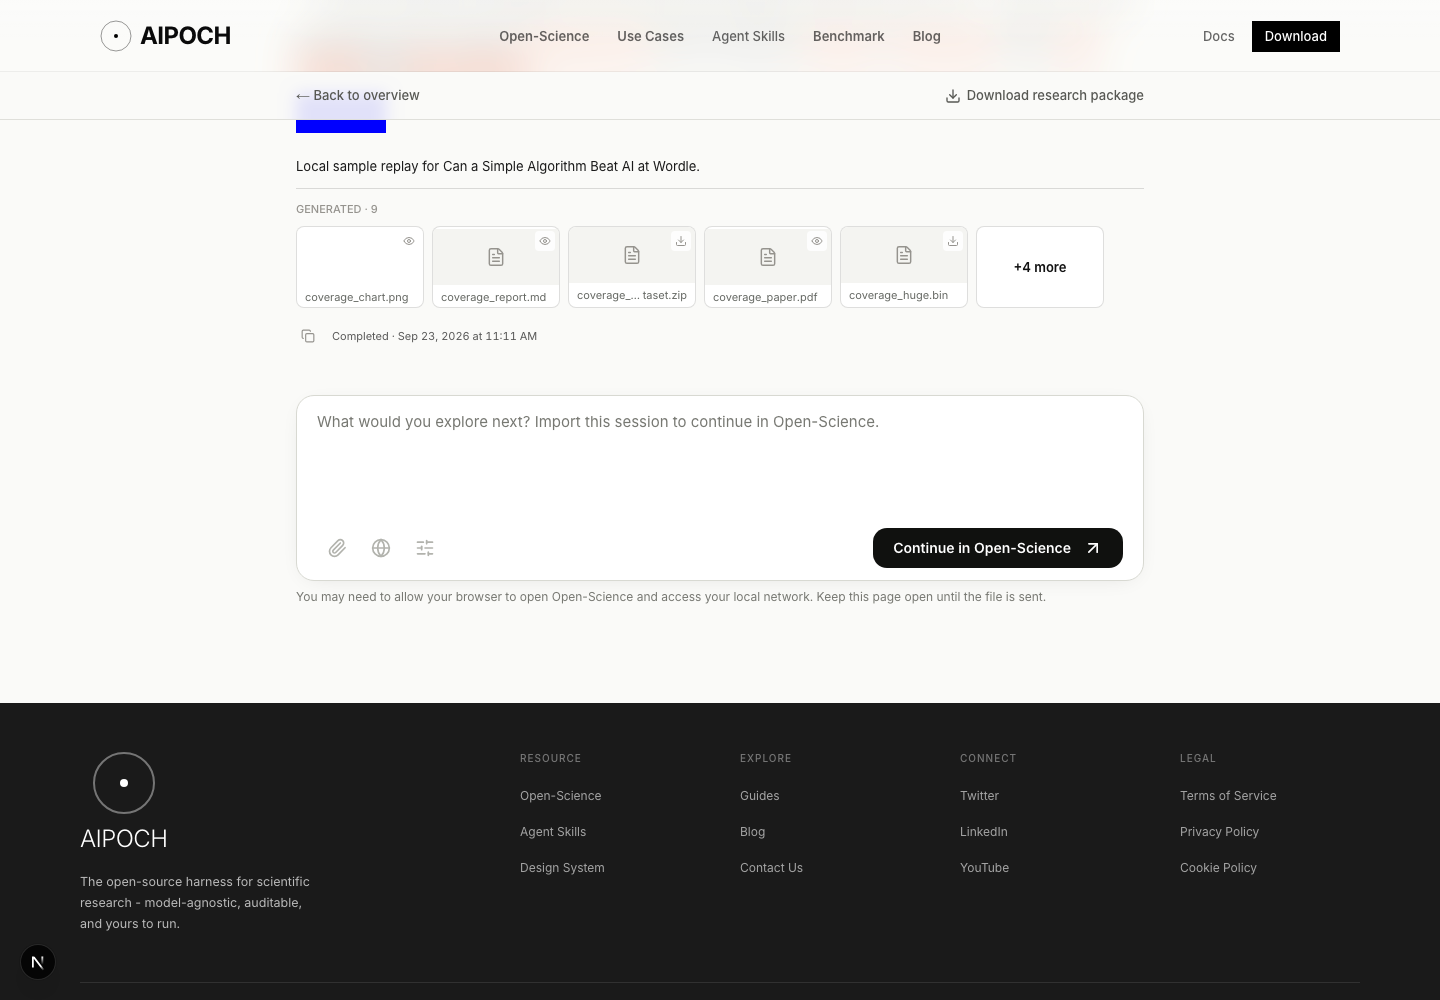
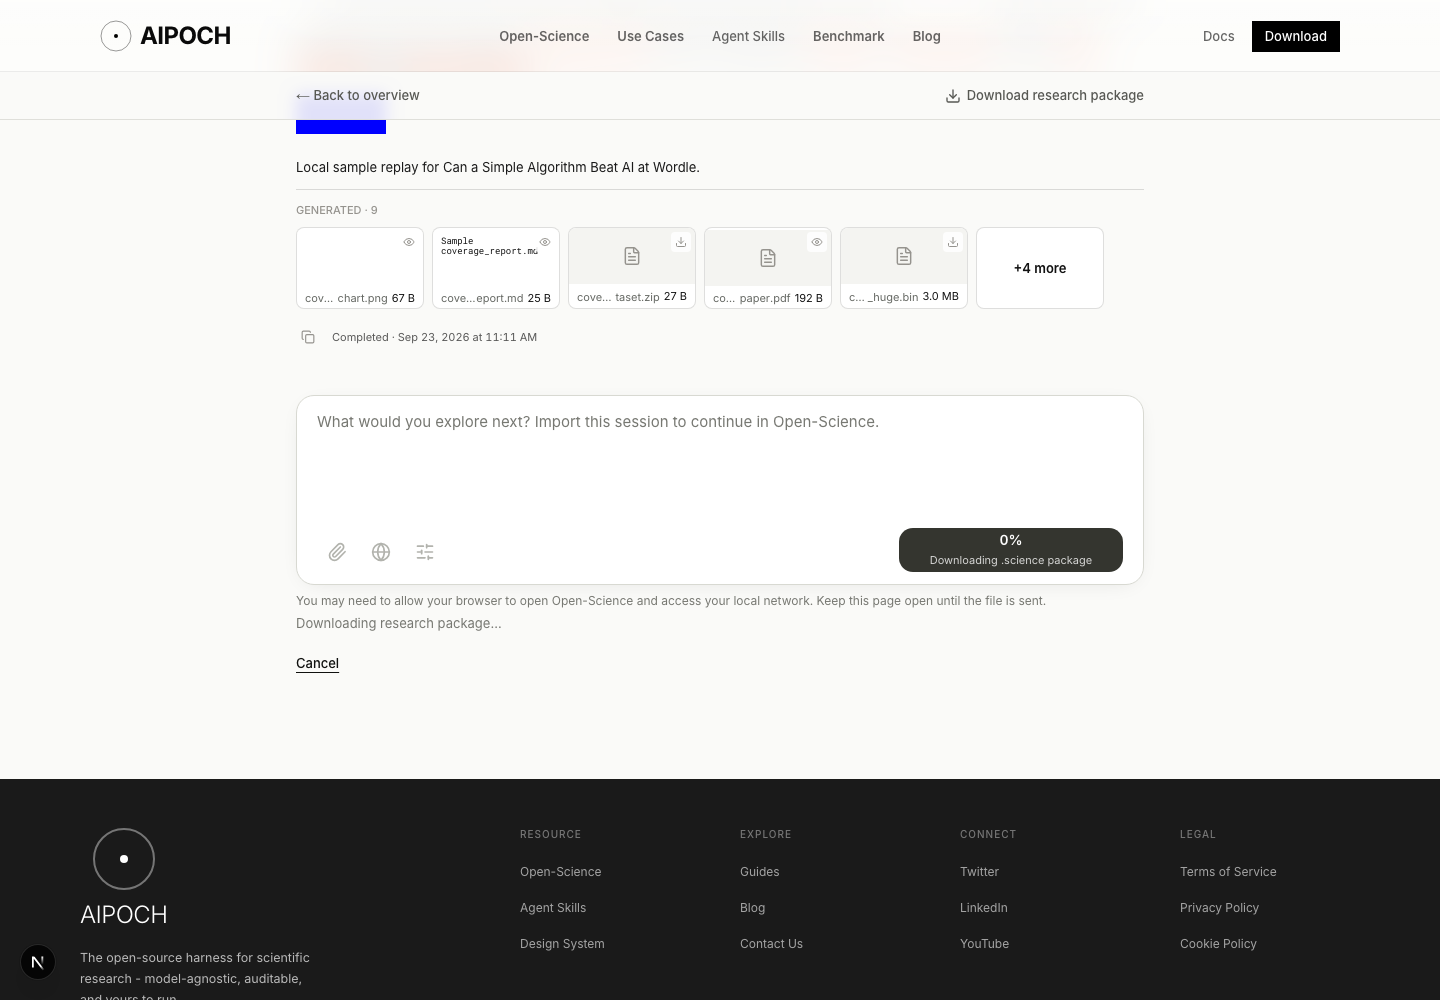
fix(open-science): show import percentages inside composer button

diff --git a/app/(commonLayout)/open-science/use-cases/_components/import-composer.tsx b/app/(commonLayout)/open-science/use-cases/_components/import-composer.tsx
@@ -30,20 +30,23 @@ export function ImportComposer({ packageInfo }: { packageInfo: UseCasePackage })
   }, [url, filename])
   const busy = ['downloading', 'sending', 'canceling'].includes(state.phase)
   const downloading = state.phase === 'downloading'
+  const sending = state.phase === 'sending'
+  const progressing = downloading || sending
   const needsApp =
     state.phase === 'unsupported' || (state.phase === 'error' && state.action === 'open')
+  const total = state.total ?? (downloading ? packageInfo.sizeBytes : undefined)
   const percent =
-    state.total && state.loaded !== undefined
-      ? Math.min(100, Math.floor((state.loaded / state.total) * 100))
+    total && total > 0 && state.loaded !== undefined
+      ? Math.min(100, Math.floor((state.loaded / total) * 100))
       : undefined
+  const progressText = percent !== undefined ? `${percent}%` : '—%'
+  const progressLabel = downloading ? 'Downloading .science package' : 'Sending to Open-Science'
   const label =
-    state.phase === 'sending'
-      ? 'Sending to Open-Science…'
-      : state.phase === 'canceling'
-        ? 'Canceling…'
-        : state.phase === 'received'
-          ? 'Sent to Open-Science'
-          : 'Continue in Open-Science'
+    state.phase === 'canceling'
+      ? 'Canceling…'
+      : state.phase === 'received'
+        ? 'Sent to Open-Science'
+        : 'Continue in Open-Science'
 
   return (
     <section
@@ -53,11 +56,7 @@ export function ImportComposer({ packageInfo }: { packageInfo: UseCasePackage })
       <div className="rounded-2xl border border-[#d8d9d2] bg-white px-4 py-3 shadow-[0_4px_24px_-12px_rgba(16,17,15,0.16)] sm:px-5">
         <textarea
           aria-label="Continue this research in the desktop app"
-          placeholder={
-            needsApp
-              ? 'If you have not installed Open-Science yet, download Open-Science first. Otherwise, open the app and try again.'
-              : 'What would you explore next? Import this session to continue in Open-Science.'
-          }
+          placeholder="What would you explore next? Import this session to continue in Open-Science."
           disabled
           rows={3}
           className="block min-h-28 w-full resize-none border-0 bg-transparent text-[15px] leading-7 text-[#777872] placeholder:text-[#777872] disabled:cursor-default disabled:opacity-100 focus:outline-none"
@@ -79,7 +78,7 @@ export function ImportComposer({ packageInfo }: { packageInfo: UseCasePackage })
           </div>
           <button
             type="button"
-            aria-label={downloading ? 'Downloading .science package' : undefined}
+            aria-label={progressing ? `${progressLabel}: ${progressText}` : undefined}
             disabled={busy || !state.action}
             onClick={() => {
               if (state.action === 'prepare') void session.current?.prepareAndOpen()
@@ -87,23 +86,11 @@ export function ImportComposer({ packageInfo }: { packageInfo: UseCasePackage })
             }}
             className="inline-flex min-h-10 w-full items-center justify-center gap-3 rounded-xl bg-[#10110f] px-5 py-1 text-sm font-semibold text-white transition-colors hover:bg-[#34352f] focus-visible:outline-2 focus-visible:outline-offset-4 focus-visible:outline-[#10110f] disabled:cursor-default sm:w-auto sm:min-w-56"
           >
-            {downloading ? (
+            {progressing ? (
               <span className="flex w-full flex-col items-center gap-1">
-                <span className="flex w-full items-center gap-2">
-                  <progress
-                    aria-label="Package download"
-                    value={percent}
-                    max={100}
-                    className="h-1.5 min-w-0 flex-1 accent-white"
-                  />
-                  <span className="shrink-0 text-xs leading-4 tabular-nums">
-                    {percent !== undefined
-                      ? `${percent}%`
-                      : `${Math.round((state.loaded ?? 0) / 1024)} KB`}
-                  </span>
-                </span>
+                <span className="text-sm leading-4 tabular-nums">{progressText}</span>
                 <small className="text-[11px] font-normal leading-4 text-white/80">
-                  Downloading .science package
+                  {progressLabel}
                 </small>
               </span>
             ) : (
@@ -115,12 +102,10 @@ export function ImportComposer({ packageInfo }: { packageInfo: UseCasePackage })
           </button>
         </div>
       </div>
-      {state.phase !== 'received' ? (
-        <p className="mt-1.5 text-xs leading-5 text-[#777872]">
-          You may need to allow your browser to open Open-Science and access your local network.
-          Keep this page open until the file is sent.
-        </p>
-      ) : null}
+      <p className="mt-1.5 text-xs leading-5 text-[#777872]">
+        You may need to allow your browser to open Open-Science and access your local network. Keep
+        this page open until the file is sent.
+      </p>
       <div className="space-y-2 text-[13px] leading-6 text-[#777872]">
         <p
           role={state.phase === 'error' ? 'alert' : 'status'}
@@ -128,21 +113,18 @@ export function ImportComposer({ packageInfo }: { packageInfo: UseCasePackage })
           className={
             state.phase === 'error'
               ? 'text-status-failure-foreground'
-              : downloading || !state.message
+              : !state.message
                 ? 'sr-only'
                 : undefined
           }
         >
           {state.message}
-          {percent !== undefined && busy ? ` ${percent}%` : ''}
         </p>
-        {busy && !downloading ? (
-          <progress
-            aria-label="Package transfer"
-            value={percent}
-            max={100}
-            className="block h-1.5 w-full accent-[#10110f]"
-          />
+        {needsApp ? (
+          <p>
+            If you have not installed Open-Science yet, download Open-Science first. Otherwise, open
+            the app and try again.
+          </p>
         ) : null}
         <div className="flex flex-wrap items-center gap-x-5 gap-y-2">
           {needsApp ? (

diff --git a/tests/integration/browser-science-import.test.ts b/tests/integration/browser-science-import.test.ts
@@ -26,6 +26,7 @@ test('composer automatically launches after download and preserves explicit retr
   unitExpect(build.success).toBe(true)
   const javascript = await build.outputs[0].text()
   let downloads = 0
+  let includeContentLength = true
   let finishDownload = () => {}
   const server = createServer((request, response) => {
     const path = request.url
@@ -38,7 +39,7 @@ test('composer automatically launches after download and preserves explicit retr
       downloads++
       response.writeHead(200, {
         'Content-Type': 'application/octet-stream',
-        'Content-Length': String(64 * 1024)
+        ...(includeContentLength ? { 'Content-Length': String(64 * 1024) } : {})
       })
       response.flushHeaders()
       response.write(new Uint8Array(32 * 1024))
@@ -83,14 +84,14 @@ test('composer automatically launches after download and preserves explicit retr
       const count = downloads
       await continueButton.click()
       const downloading = page.getByRole('button', {
-        name: 'Downloading .science package',
-        exact: true
+        name: /^Downloading \.science package:/
       })
       await expect(downloading).toBeDisabled()
-      await expect(downloading.getByRole('progressbar')).toHaveAttribute('value', '50')
       await expect(downloading).toContainText('50%')
       await expect(downloading.locator('small')).toHaveText('Downloading .science package')
-      await expect(page.getByRole('progressbar')).toHaveCount(1)
+      await expect(page.getByRole('progressbar')).toHaveCount(0)
+      await expect(page.getByRole('status')).toBeVisible()
+      await expect(page.getByRole('status')).not.toContainText('%')
       unitExpect((await snapshot()).prepares).toBe(0)
       // Read through CDP: Playwright page.evaluate itself grants synthetic activation.
       const cdp = await page.context().newCDPSession(page)
@@ -117,13 +118,15 @@ test('composer automatically launches after download and preserves explicit retr
         blobSize: 64 * 1024,
         sends: 1
       })
-      const busy = page.getByRole('button', { name: 'Sending to Open-Science…' })
+      const busy = page.getByRole('button', { name: /^Sending to Open-Science:/ })
       await busy.dispatchEvent('click')
       unitExpect((await snapshot()).sends).toBe(1)
       await page.evaluate(() =>
         (window as unknown as TestWindow).importTest.progress({ sentBytes: 3, totalBytes: 7 })
       )
-      await expect(page.getByRole('progressbar')).toHaveAttribute('value', '42')
+      await expect(busy).toContainText('42%')
+      await expect(page.getByRole('progressbar')).toHaveCount(0)
+      await expect(page.getByRole('status')).not.toContainText('%')
       await page.getByRole('button', { name: 'Cancel', exact: true }).click()
       await expect(page.getByRole('status')).toContainText('Transfer canceled')
       await continueButton.click()
@@ -137,8 +140,9 @@ test('composer automatically launches after download and preserves explicit retr
       await expect(page.getByRole('alert')).toContainText('Could not open Open-Science')
       await expect(page.getByRole('textbox')).toHaveAttribute(
         'placeholder',
-        /download Open-Science first/
+        'What would you explore next? Import this session to continue in Open-Science.'
       )
+      await expect(page.getByText(/If you have not installed Open-Science yet/)).toBeVisible()
       await expect(
         page.getByRole('link', { name: 'Download Open-Science', exact: true })
       ).toHaveAttribute('href', '/open-science/download')
@@ -154,18 +158,33 @@ test('composer automatically launches after download and preserves explicit retr
         'File sent to Open-Science. Please confirm the import in the app.'
       )
       await expect(page.getByRole('button', { name: 'Sent to Open-Science' })).toBeDisabled()
+      await expect(page.getByText(/You may need to allow your browser/)).toBeVisible()
       await expect(page.getByText('Import successful', { exact: true })).toHaveCount(0)
       unitExpect(downloads).toBe(count + 1)
       // Unmount during a new send must abort it without late React updates.
       await page.goto(origin)
       await continueButton.click()
-      await expect(downloading.getByRole('progressbar')).toHaveAttribute('value', '50')
+      await expect(downloading).toContainText('50%')
       finishDownload()
       await expect(page.getByRole('status')).toContainText('Waiting for Open-Science')
       await page.evaluate(() => (window as unknown as TestWindow).unmountImport())
       unitExpect((await snapshot()).cancels).toBe(1)
       await page.evaluate(() => (window as unknown as TestWindow).importTest.finish())
       await expect(page.getByRole('region')).toHaveCount(0)
+      // No Content-Length: use manifest size when known, otherwise do not invent a percentage.
+      includeContentLength = false
+      for (const [suffix, percentage] of [
+        ['', '50%'],
+        ['?unknownSize=1', '—%']
+      ]) {
+        await page.goto(`${origin}${suffix}`)
+        await continueButton.click()
+        await expect(downloading).toContainText(percentage)
+        await expect(page.getByRole('progressbar')).toHaveCount(0)
+        await page.getByRole('button', { name: 'Cancel', exact: true }).click()
+        await expect(page.getByRole('status')).toContainText('Download canceled')
+      }
+      includeContentLength = true
       unitExpect(errors).toEqual([])
       await page.close()
     }

diff --git a/tests/integration/use-case-import-browser.ts b/tests/integration/use-case-import-browser.ts
@@ -42,12 +42,15 @@ export async function verifyImportPreparation(
     await composer.getByRole('button', { name: 'Continue in Open-Science', exact: true }).click()
     await expect(composer.getByRole('status')).toContainText('Downloading')
     const busyButton = composer.getByRole('button', {
-      name: 'Downloading .science package',
-      exact: true
+      name: /^Downloading \.science package:/
     })
     await expect(busyButton).toBeDisabled()
-    await expect(busyButton.getByRole('progressbar')).not.toHaveAttribute('value')
+    await expect(busyButton).toContainText('0%')
+    await expect(composer.getByRole('progressbar')).toHaveCount(0)
+    await expect(composer.getByRole('status')).toBeVisible()
+    await expect(composer.getByRole('status')).not.toContainText('%')
     await expect(busyButton.locator('small')).toHaveText('Downloading .science package')
+    await composer.scrollIntoViewIfNeeded()
     await page.screenshot({ path: screenshot.replace('.png', '-downloading.png') })
     await busyButton.dispatchEvent('click')
     await composer.getByRole('button', { name: 'Cancel', exact: true }).click()

diff --git a/app/sitemap.ts b/app/sitemap.ts
@@ -20,8 +20,8 @@ const OPEN_SCIENCE_DOWNLOAD_LAST_MODIFIED = '2026-09-30'
 const OPEN_SCIENCE_USE_CASES_LAST_MODIFIED = '2026-10-13'
 // Track overview and replay template changes separately from the gallery.
 const OPEN_SCIENCE_USE_CASE_DETAIL_LAST_MODIFIED = '2026-10-13'
-// Replay rendering and browser-held package import were updated on October 12.
-const OPEN_SCIENCE_USE_CASE_REPLAY_LAST_MODIFIED = '2026-10-12'
+// Replay import hints and percentage-only progress were updated on October 15.
+const OPEN_SCIENCE_USE_CASE_REPLAY_LAST_MODIFIED = '2026-10-15'
 const AGENT_SKILLS_LIST_LAST_MODIFIED = '2026-09-23'
 
 // Disable cache, regenerate on every request

diff --git a/tests/integration/mock-development.test.ts b/tests/integration/mock-development.test.ts
@@ -290,7 +290,7 @@ describe('mock development end to end', () => {
           `/open-science/use-cases/${item.name}</loc><lastmod>2026-10-13T00:00:00.000Z</lastmod>`
         )
         expect(sitemap).toContain(
-          `/open-science/use-cases/${item.name}/replay</loc><lastmod>2026-10-12T00:00:00.000Z</lastmod>`
+          `/open-science/use-cases/${item.name}/replay</loc><lastmod>2026-10-15T00:00:00.000Z</lastmod>`
         )
         const detailHtml = await (await fetch(`${web}/open-science/use-cases/${item.name}`)).text()
         expect(detailHtml).toContain(`href="/open-science/use-cases/${item.name}/replay"`)

diff --git a/tests/unit/sitemap.test.ts b/tests/unit/sitemap.test.ts
@@ -98,13 +98,13 @@ describe('sitemap', () => {
         new Date(date)
       )
     }
-    // Preserve the October 12 replay template date.
+    // Track the October 15 replay composer update independently of the gallery.
     for (const path of [
       '/open-science/use-cases/nvda-all-at-once-or-four-weeks/replay',
       '/open-science/use-cases/can-a-simple-algorithm-beat-ai-at-wordle/replay'
     ]) {
       expect(routes.find((route) => route.url === `${siteDomain}${path}`)?.lastModified).toEqual(
-        new Date('2026-10-12')
+        new Date('2026-10-15')
       )
     }
   })

diff --git a/tests/fixtures/browser-import-page.tsx b/tests/fixtures/browser-import-page.tsx
@@ -7,7 +7,7 @@ root.render(
     packageInfo={{
       url: '/package.science',
       filename: 'test.science',
-      sizeBytes: 64 * 1024,
+      sizeBytes: new URLSearchParams(window.location.search).has('unknownSize') ? 0 : 64 * 1024,
       sha256: ''
     }}
   />

diff --git a/README.md b/README.md
@@ -161,7 +161,10 @@ loads from `<manifest directory>/<case name>/extracted/`.
 
 The composer below each replay downloads the complete `.science` file into a
 browser-held Blob after **Continue in Open-Science** is clicked. The button shows
-download progress above **Downloading .science package**. Once the Blob is ready,
+download and send percentages in the button without progress bars. Status and
+installation guidance stay below the composer. Download percentages use the
+response length or the resource manifest size; unknown totals show **—%**.
+Once the Blob is ready,
 the website automatically attempts the SDK protocol launch and starts sending.
 Asynchronous downloads can exhaust browser user activation; automatic protocol
 launch is best effort. After failure, clicking **Continue in Open-Science** again
